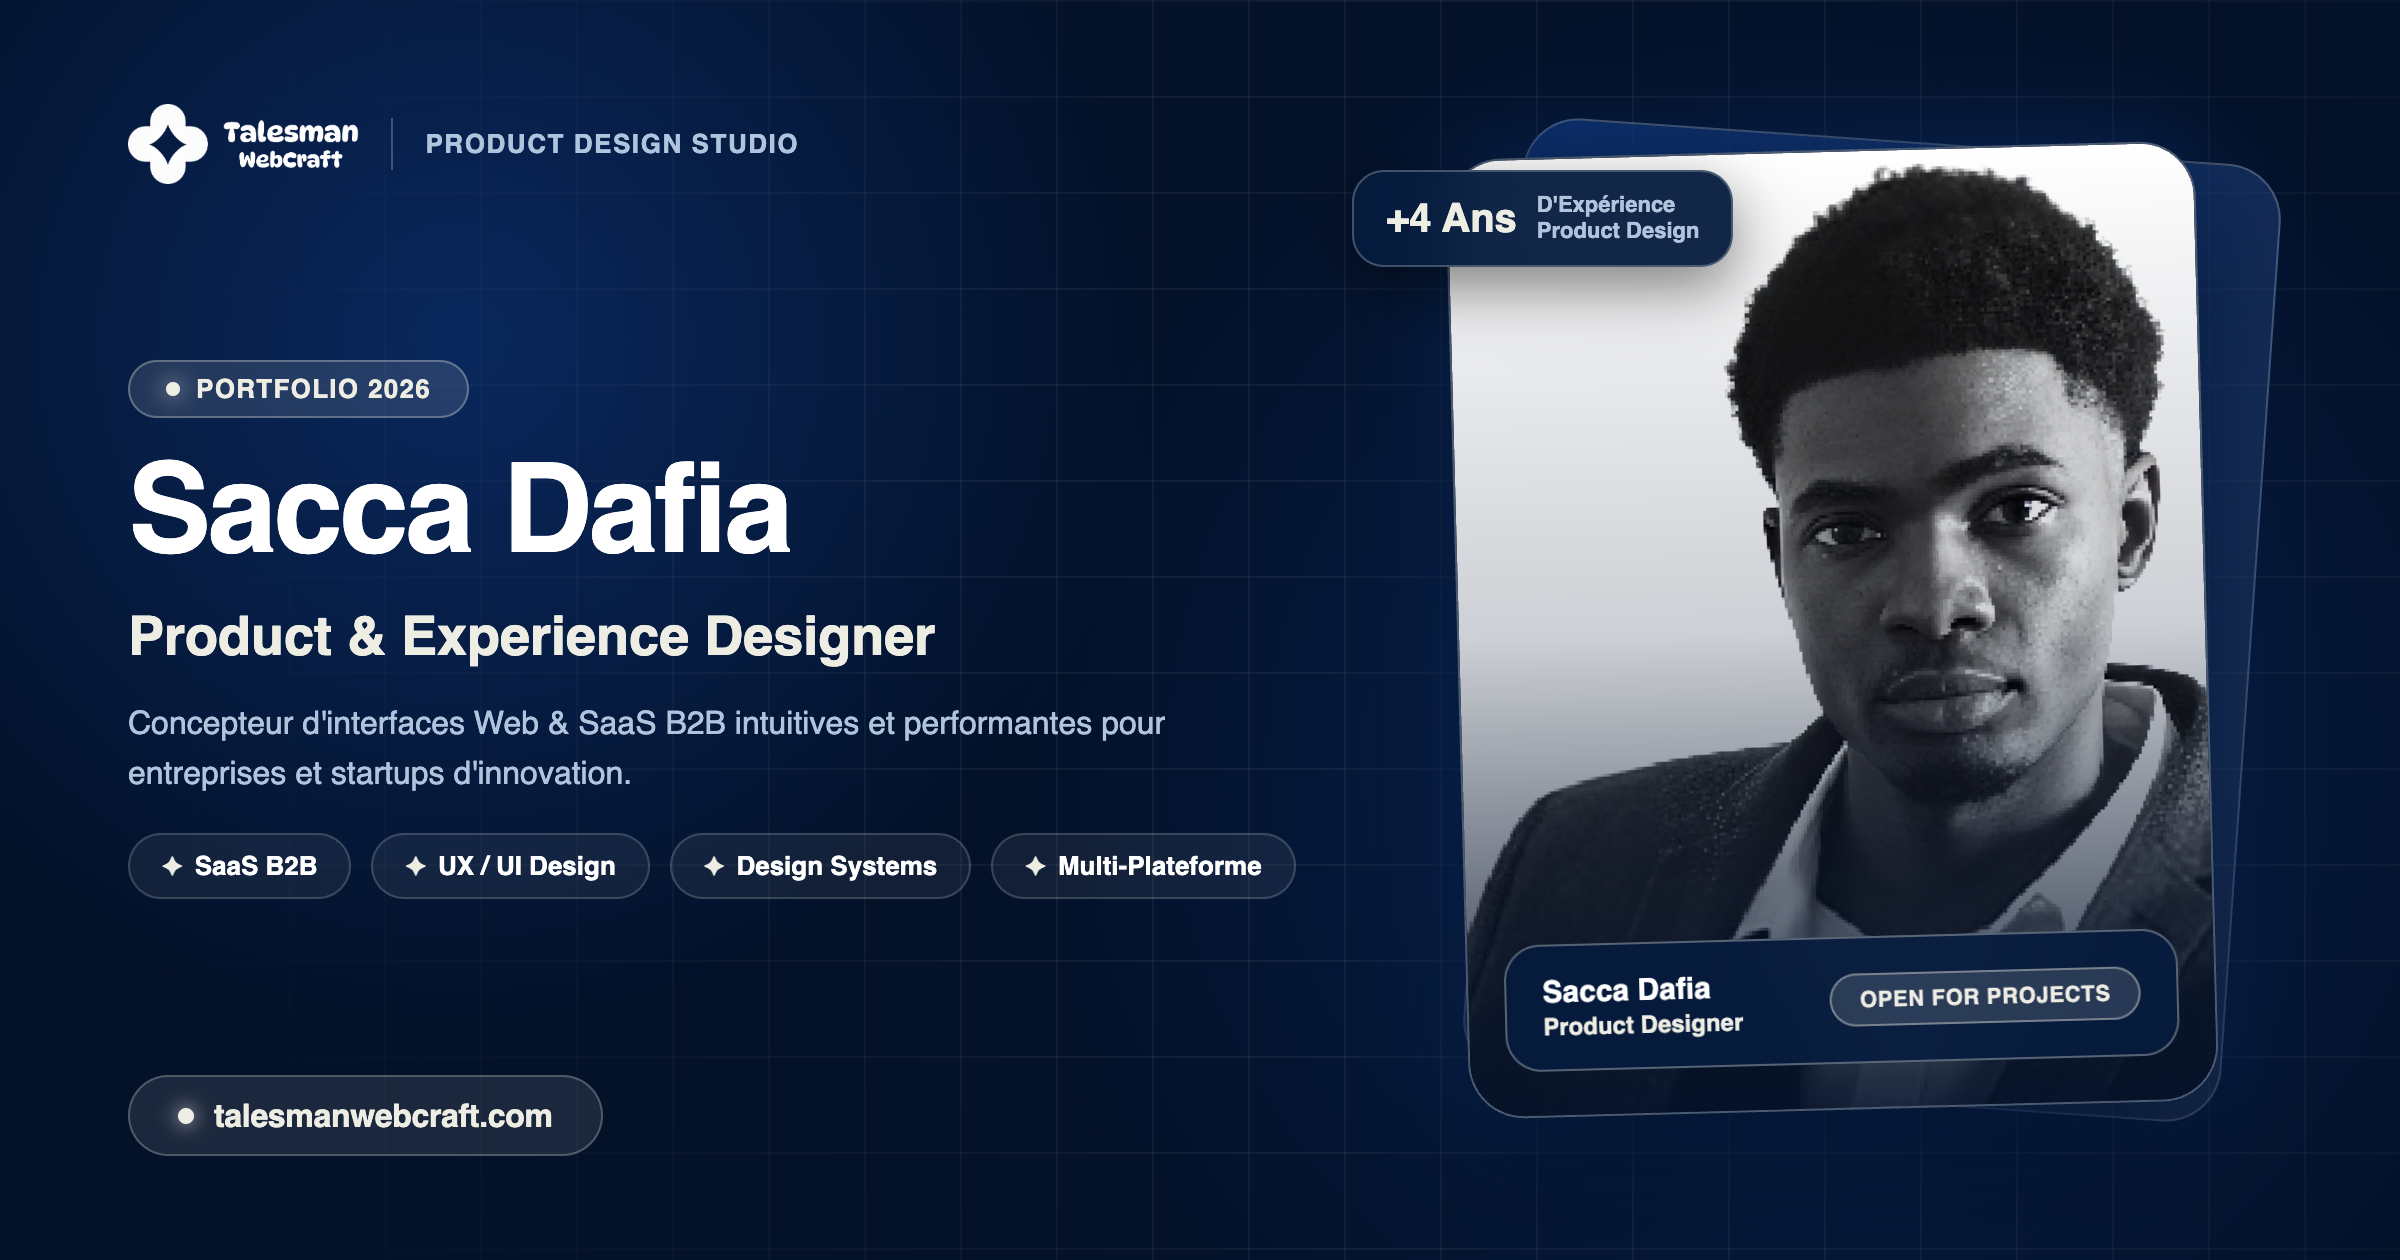
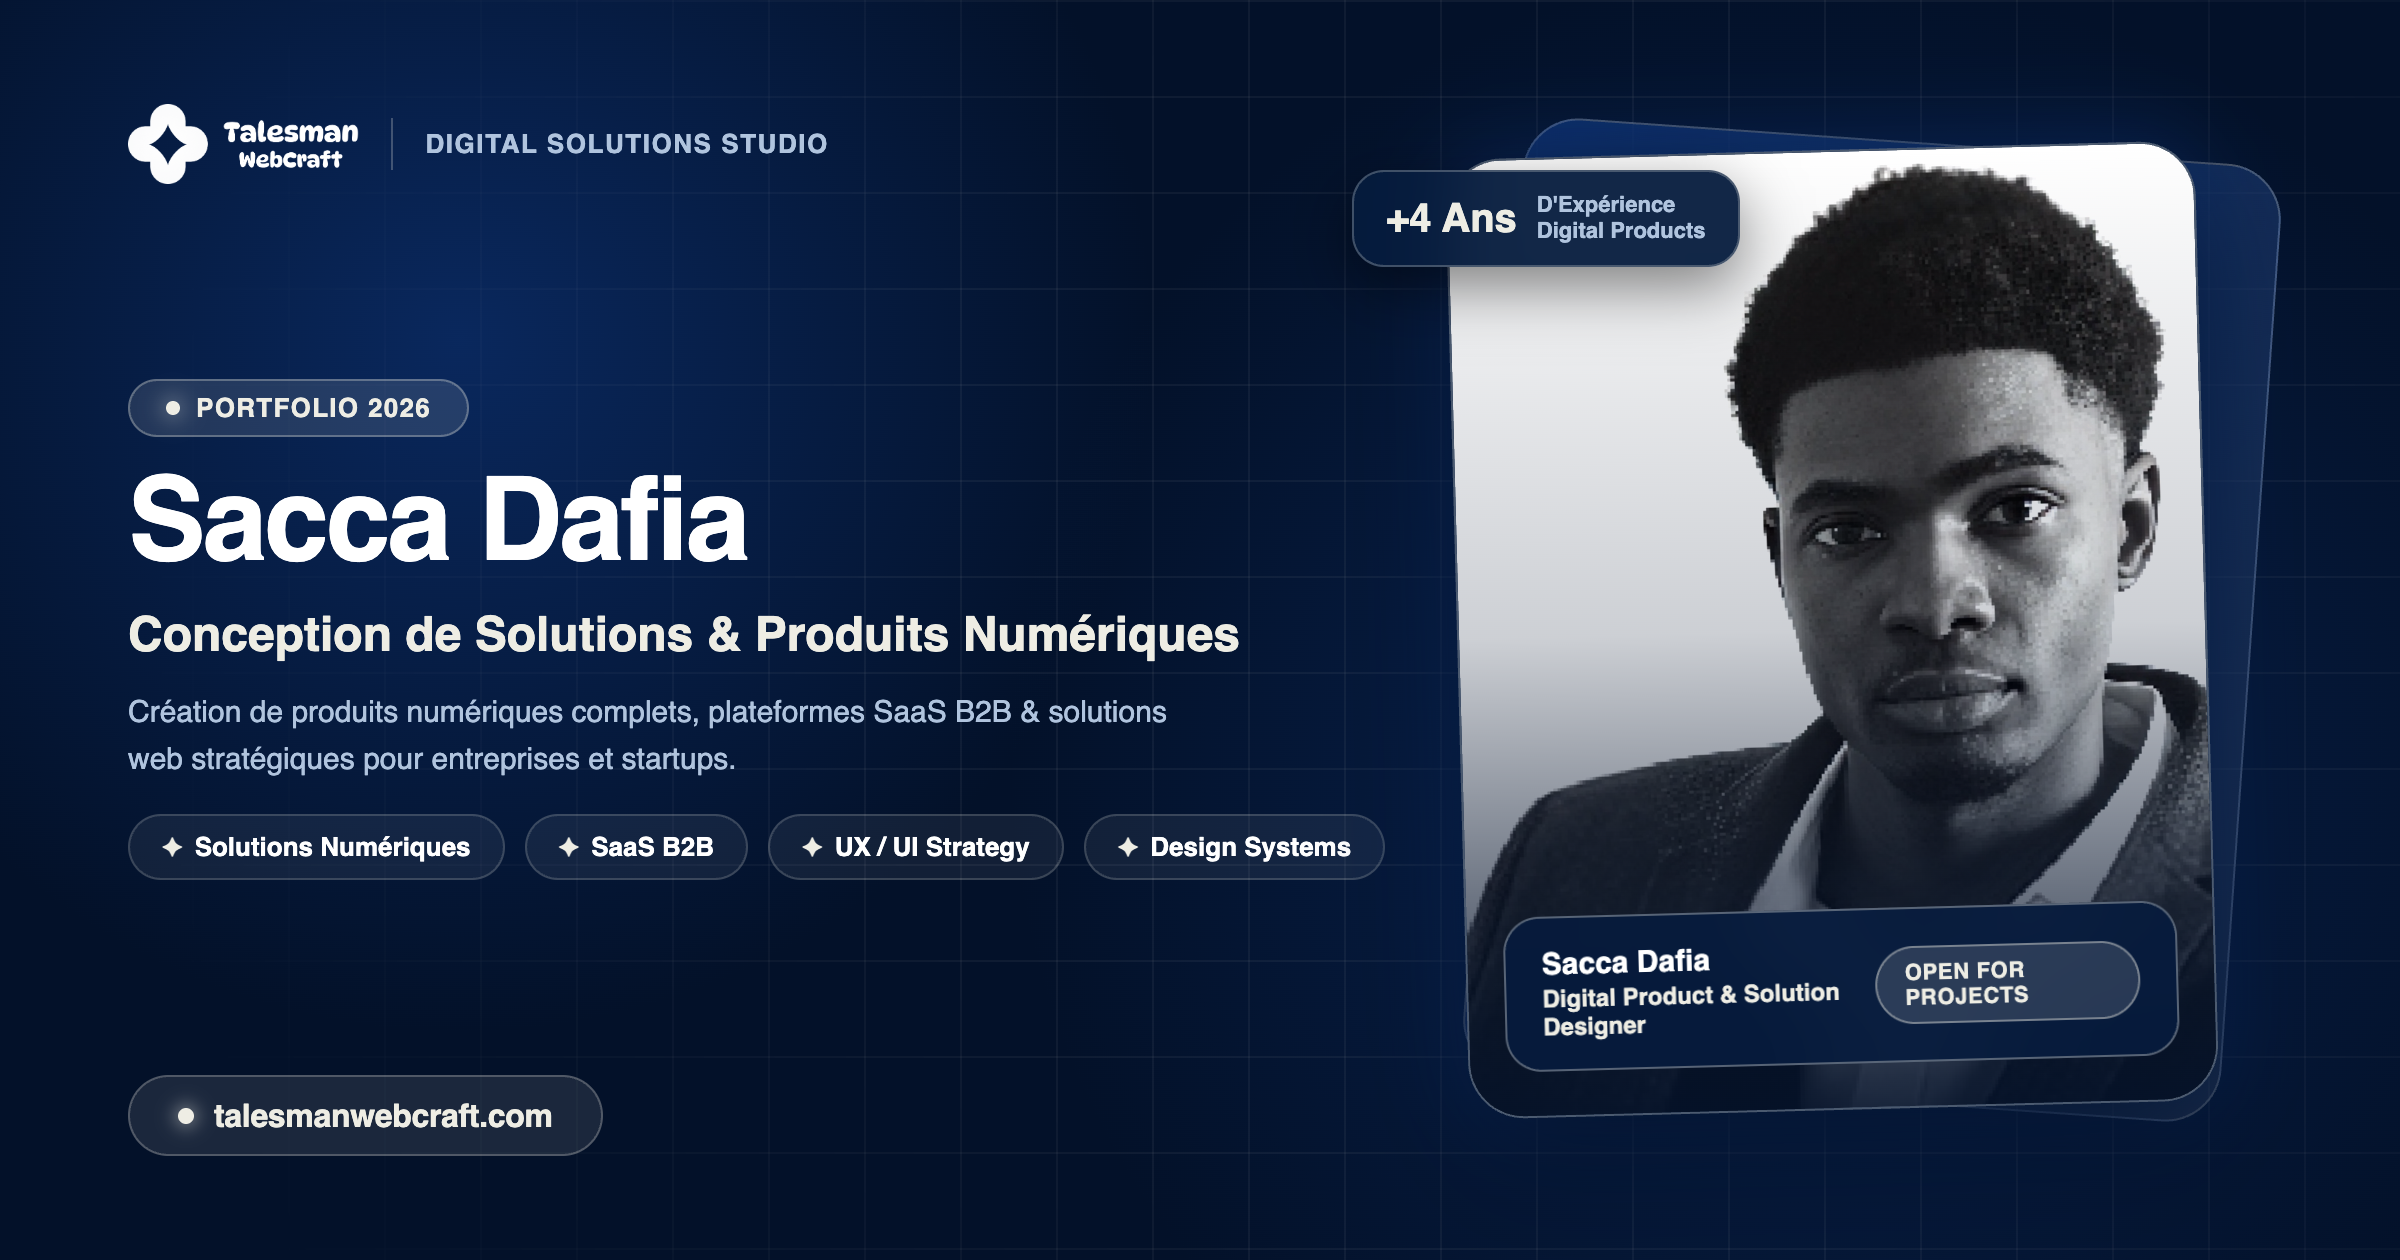
fix: position as Digital Solutions & Products Designer and update OG image tags with secure_url & cache-busting

diff --git a/index.html b/index.html
@@ -15,10 +15,10 @@
     <meta name="robots" content="index, follow, max-image-preview:large, max-snippet:-1, max-video-preview:-1" />
 
     <!-- Title & Meta Description (Recruiter Clarity & SEO) -->
-    <title>Sacca Dafia | Portfolio - Product & Experience Designer</title>
-    <meta name="description" content="Sacca Dafia, Product & Experience Designer (+4 ans d'expérience). Concepteur d'interfaces Web & SaaS B2B intuitives et performantes pour entreprises et startups. Contact: dafiashalom@gmail.com" />
+    <title>Sacca Dafia | Conception de Solutions & Produits Numériques</title>
+    <meta name="description" content="Sacca Dafia, Product & Solution Designer (+4 ans d'expérience). Conception de solutions digitales completes, plateformes SaaS B2B & produits numériques pour entreprises et startups. Contact: dafiashalom@gmail.com" />
     <meta name="author" content="Sacca Dafia" />
-    <meta name="keywords" content="Sacca Dafia, Product Designer, UX Designer, UI Designer, Web Designer, SaaS B2B, Portfolio, Design System" />
+    <meta name="keywords" content="Sacca Dafia, Product Designer, Solution Designer, UX Designer, UI Designer, Web Designer, SaaS B2B, Solutions Numériques, Digital Products, Portfolio, Design System" />
     
     <!-- Security Headers Meta (CSP, Frame Options, Referrer Policy) -->
     <meta http-equiv="Content-Security-Policy" content="default-src 'self'; script-src 'self' 'unsafe-inline' 'unsafe-eval' https://assets.calendly.com https://fonts.googleapis.com https://cdn.jsdelivr.net; style-src 'self' 'unsafe-inline' https://fonts.googleapis.com https://assets.calendly.com; img-src 'self' data: blob: https:; font-src 'self' data: https://fonts.gstatic.com; connect-src 'self' https://assets.calendly.com https://api.calendly.com; frame-src 'self' https://calendly.com https://assets.calendly.com; frame-ancestors 'self';" />
@@ -32,18 +32,20 @@
     <meta property="og:url" content="https://saccadafia.com/" />
     <meta property="og:locale" content="fr_FR" />
     <meta property="og:locale:alternate" content="en_US" />
-    <meta property="og:title" content="Sacca Dafia | Portfolio - Product & Experience Designer" />
-    <meta property="og:description" content="Product & Experience Designer avec plus de 4 ans d'expérience en design de SaaS B2B et produits numériques." />
-    <meta property="og:image" content="https://saccadafia.com/imgs/og-preview.png" />
+    <meta property="og:title" content="Sacca Dafia | Conception de Solutions & Produits Numériques" />
+    <meta property="og:description" content="Product & Solution Designer (+4 ans d'expérience). Conception de solutions digitales sur mesure, SaaS B2B et produits numériques d'exception." />
+    <meta property="og:image" content="https://saccadafia.com/imgs/og-preview.png?v=2" />
+    <meta property="og:image:secure_url" content="https://saccadafia.com/imgs/og-preview.png?v=2" />
     <meta property="og:image:width" content="1200" />
     <meta property="og:image:height" content="630" />
     <meta property="og:image:type" content="image/png" />
+    <meta property="og:image:alt" content="Sacca Dafia - Conception de Solutions & Produits Numériques" />
 
     <!-- Twitter Card -->
     <meta name="twitter:card" content="summary_large_image" />
-    <meta name="twitter:title" content="Sacca Dafia | Portfolio - Product & Experience Designer" />
-    <meta name="twitter:description" content="Product & Experience Designer. Découvrez mes études de cas SaaS B2B et projets web." />
-    <meta name="twitter:image" content="https://saccadafia.com/imgs/og-preview.png" />
+    <meta name="twitter:title" content="Sacca Dafia | Conception de Solutions & Produits Numériques" />
+    <meta name="twitter:description" content="Conception de produits numériques complets, plateformes SaaS B2B et solutions web stratégiques (+4 ans exp)." />
+    <meta name="twitter:image" content="https://saccadafia.com/imgs/og-preview.png?v=2" />
 
     <!-- Fonts -->
     <link rel="preconnect" href="https://fonts.googleapis.com">

diff --git a/public/generate_og_template.html b/public/generate_og_template.html
@@ -61,7 +61,7 @@
     .left-content {
       position: relative;
       z-index: 10;
-      max-width: 610px;
+      max-width: 630px;
       display: flex;
       flex-direction: column;
       height: 100%;
@@ -99,7 +99,7 @@
     .main-info {
       display: flex;
       flex-direction: column;
-      gap: 14px;
+      gap: 12px;
     }
 
     .status-badge {
@@ -129,7 +129,7 @@
 
     .author-name {
       font-family: 'Outfit', sans-serif;
-      font-size: 62px;
+      font-size: 58px;
       font-weight: 800;
       line-height: 1.04;
       letter-spacing: -0.025em;
@@ -138,17 +138,17 @@
 
     .author-title {
       font-family: 'Outfit', sans-serif;
-      font-size: 27px;
+      font-size: 24px;
       font-weight: 700;
       color: #eeede4;
       line-height: 1.25;
     }
 
     .author-desc {
-      font-size: 16px;
+      font-size: 15px;
       color: #B0C4DE;
       line-height: 1.55;
-      max-width: 530px;
+      max-width: 550px;
     }
 
     /* Skill Tag Pills */
@@ -353,7 +353,7 @@
     <div class="brand-header">
       <img src="imgs/Logo.png" alt="Talesman Webcraft Logo" class="brand-logo-img">
       <div class="brand-divider"></div>
-      <div class="brand-tagline">Product Design Studio</div>
+      <div class="brand-tagline">Digital Solutions Studio</div>
     </div>
 
     <div class="main-info">
@@ -363,17 +363,17 @@
       </div>
 
       <h1 class="author-name">Sacca Dafia</h1>
-      <h2 class="author-title">Product & Experience Designer</h2>
+      <h2 class="author-title">Conception de Solutions & Produits Numériques</h2>
 
       <p class="author-desc">
-        Concepteur d'interfaces Web & SaaS B2B intuitives et performantes pour entreprises et startups d'innovation.
+        Création de produits numériques complets, plateformes SaaS B2B & solutions web stratégiques pour entreprises et startups.
       </p>
 
       <div class="pills-row">
+        <div class="pill"><span class="pill-icon">✦</span> Solutions Numériques</div>
         <div class="pill"><span class="pill-icon">✦</span> SaaS B2B</div>
-        <div class="pill"><span class="pill-icon">✦</span> UX / UI Design</div>
+        <div class="pill"><span class="pill-icon">✦</span> UX / UI Strategy</div>
         <div class="pill"><span class="pill-icon">✦</span> Design Systems</div>
-        <div class="pill"><span class="pill-icon">✦</span> Multi-Plateforme</div>
       </div>
     </div>
 
@@ -393,7 +393,7 @@
 
     <div class="floating-stat-badge">
       <div class="stat-number">+4 Ans</div>
-      <div class="stat-label">D'Expérience<br>Product Design</div>
+      <div class="stat-label">D'Expérience<br>Digital Products</div>
     </div>
 
     <div class="photo-card">
@@ -403,7 +403,7 @@
       <div class="floating-card-tag">
         <div>
           <div class="tag-text-main">Sacca Dafia</div>
-          <div class="tag-text-sub">Product Designer</div>
+          <div class="tag-text-sub">Digital Product & Solution Designer</div>
         </div>
         <div class="tag-avail-badge">
           Open for projects

diff --git a/src/App.tsx b/src/App.tsx
@@ -1146,10 +1146,10 @@ function App() {
     // Dynamic Title & Meta Description for SEO and Recruiter Clarity
     const viewTitles: Record<string, { en: string; fr: string; descEn: string; descFr: string }> = {
       home: {
-        en: "Sacca Dafia | Portfolio - Product & Experience Designer",
-        fr: "Sacca Dafia | Portfolio - Product & Experience Designer",
-        descEn: "Sacca Dafia, Product & Experience Designer (+4 years exp). Designing intuitive Web & B2B SaaS interfaces for high-growth tech teams.",
-        descFr: "Sacca Dafia, Product & Experience Designer (+4 ans d'expérience). Concepteur d'interfaces Web & SaaS B2B intuitives et performantes."
+        en: "Sacca Dafia | Digital Solution & Product Designer",
+        fr: "Sacca Dafia | Conception de Solutions & Produits Numériques",
+        descEn: "Sacca Dafia, Digital Solution & Product Designer (+4 years exp). Designing intuitive digital products, B2B SaaS platforms & web solutions.",
+        descFr: "Sacca Dafia, Conception de Solutions & Produits Numériques (+4 ans d'expérience). Création de produits numériques complets & SaaS B2B."
       },
       projects: {
         en: "Projects & Selected Works | Sacca Dafia",
@@ -2307,7 +2307,7 @@ function App() {
                     animate={{ opacity: 1, y: 0 }}
                     transition={{ duration: 0.8, delay: 0.4 }}
                   >
-                    {lang === 'fr' ? "Je suis SACCA Dafia, Product & Experience Designer." : "I'm SACCA Dafia, a Product & Experience Designer."}
+                    {lang === 'fr' ? "Je suis SACCA Dafia, Designer de Solutions & Produits Numériques." : "I'm SACCA Dafia, a Digital Solution & Product Designer."}
                   </motion.h1>
                   <motion.p
                     className="hero-presentation-desc"
@@ -2316,8 +2316,8 @@ function App() {
                     transition={{ duration: 0.8, delay: 0.5 }}
                   >
                     {lang === 'fr' 
-                      ? "Je conçois des produits numériques intuitifs, des SaaS B2B performants et des expériences web sur mesure pour entreprises et startups."
-                      : "I design intuitive digital products, B2B SaaS platforms, and tailored web experiences for ambitious companies."}
+                      ? "Spécialisé dans la conception de solutions digitales sur mesure, de produits numériques complets et de plateformes SaaS B2B intuitives et performantes."
+                      : "Specialized in designing tailored digital solutions, complete digital products, and intuitive B2B SaaS platforms."}
                   </motion.p>
                   <motion.div
                     className="hero-contact-actions"
